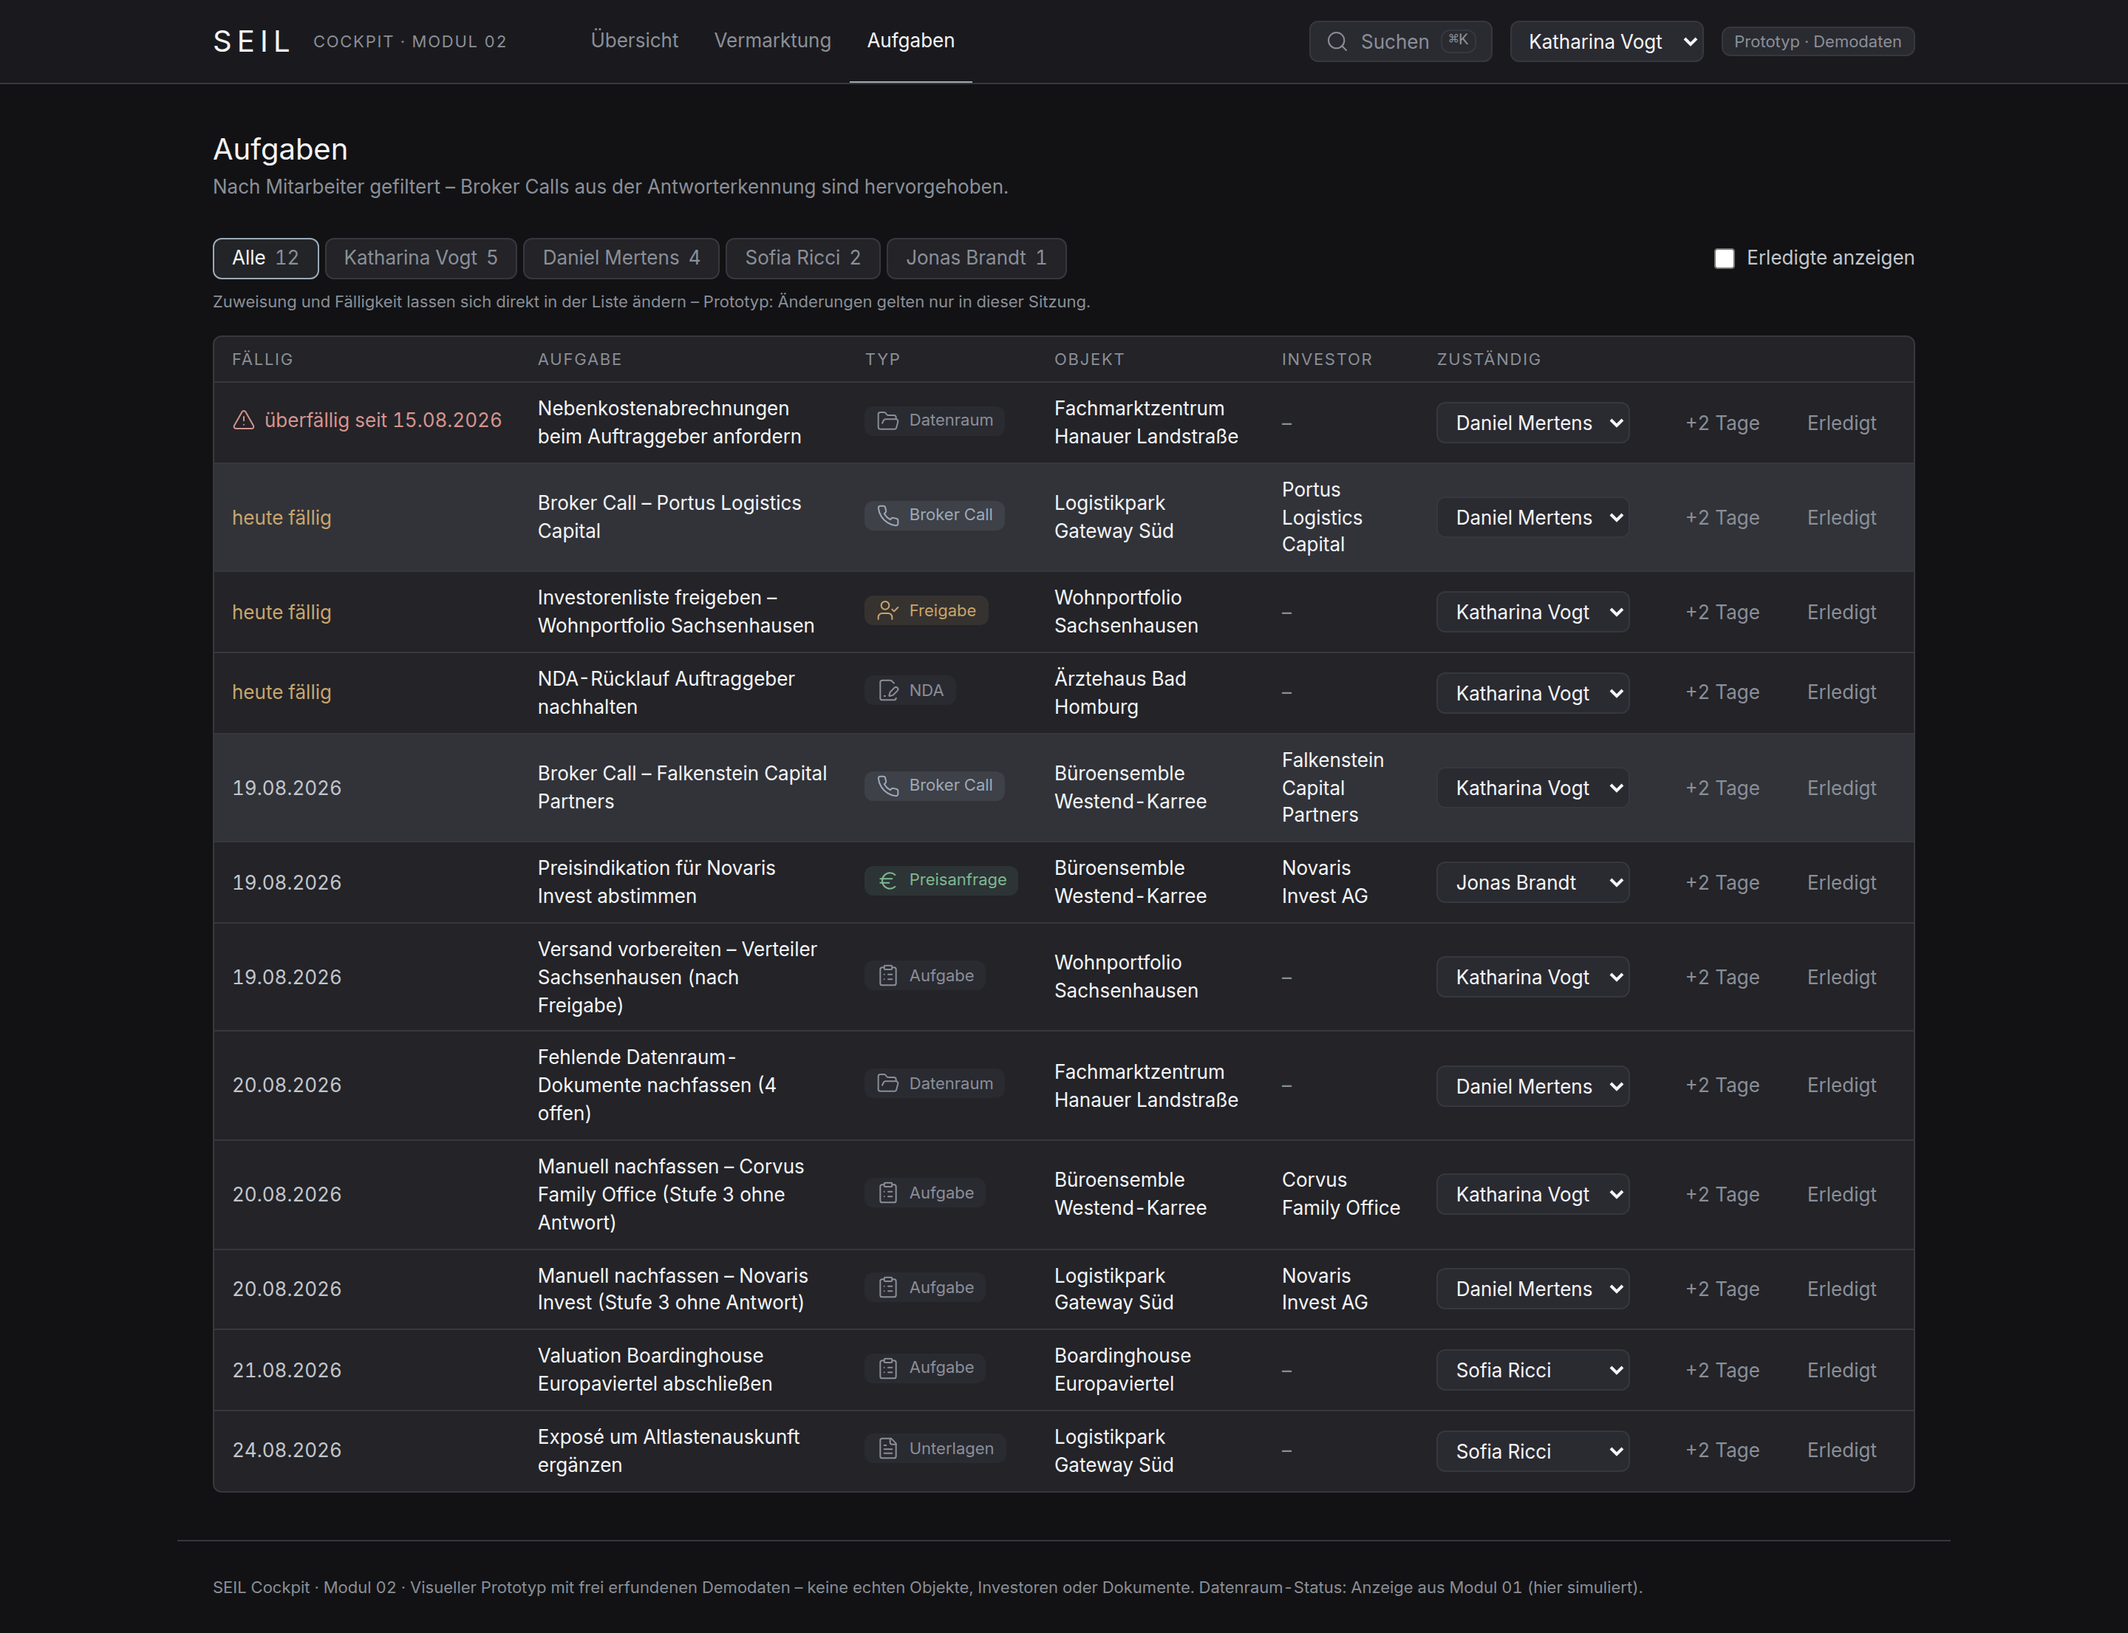
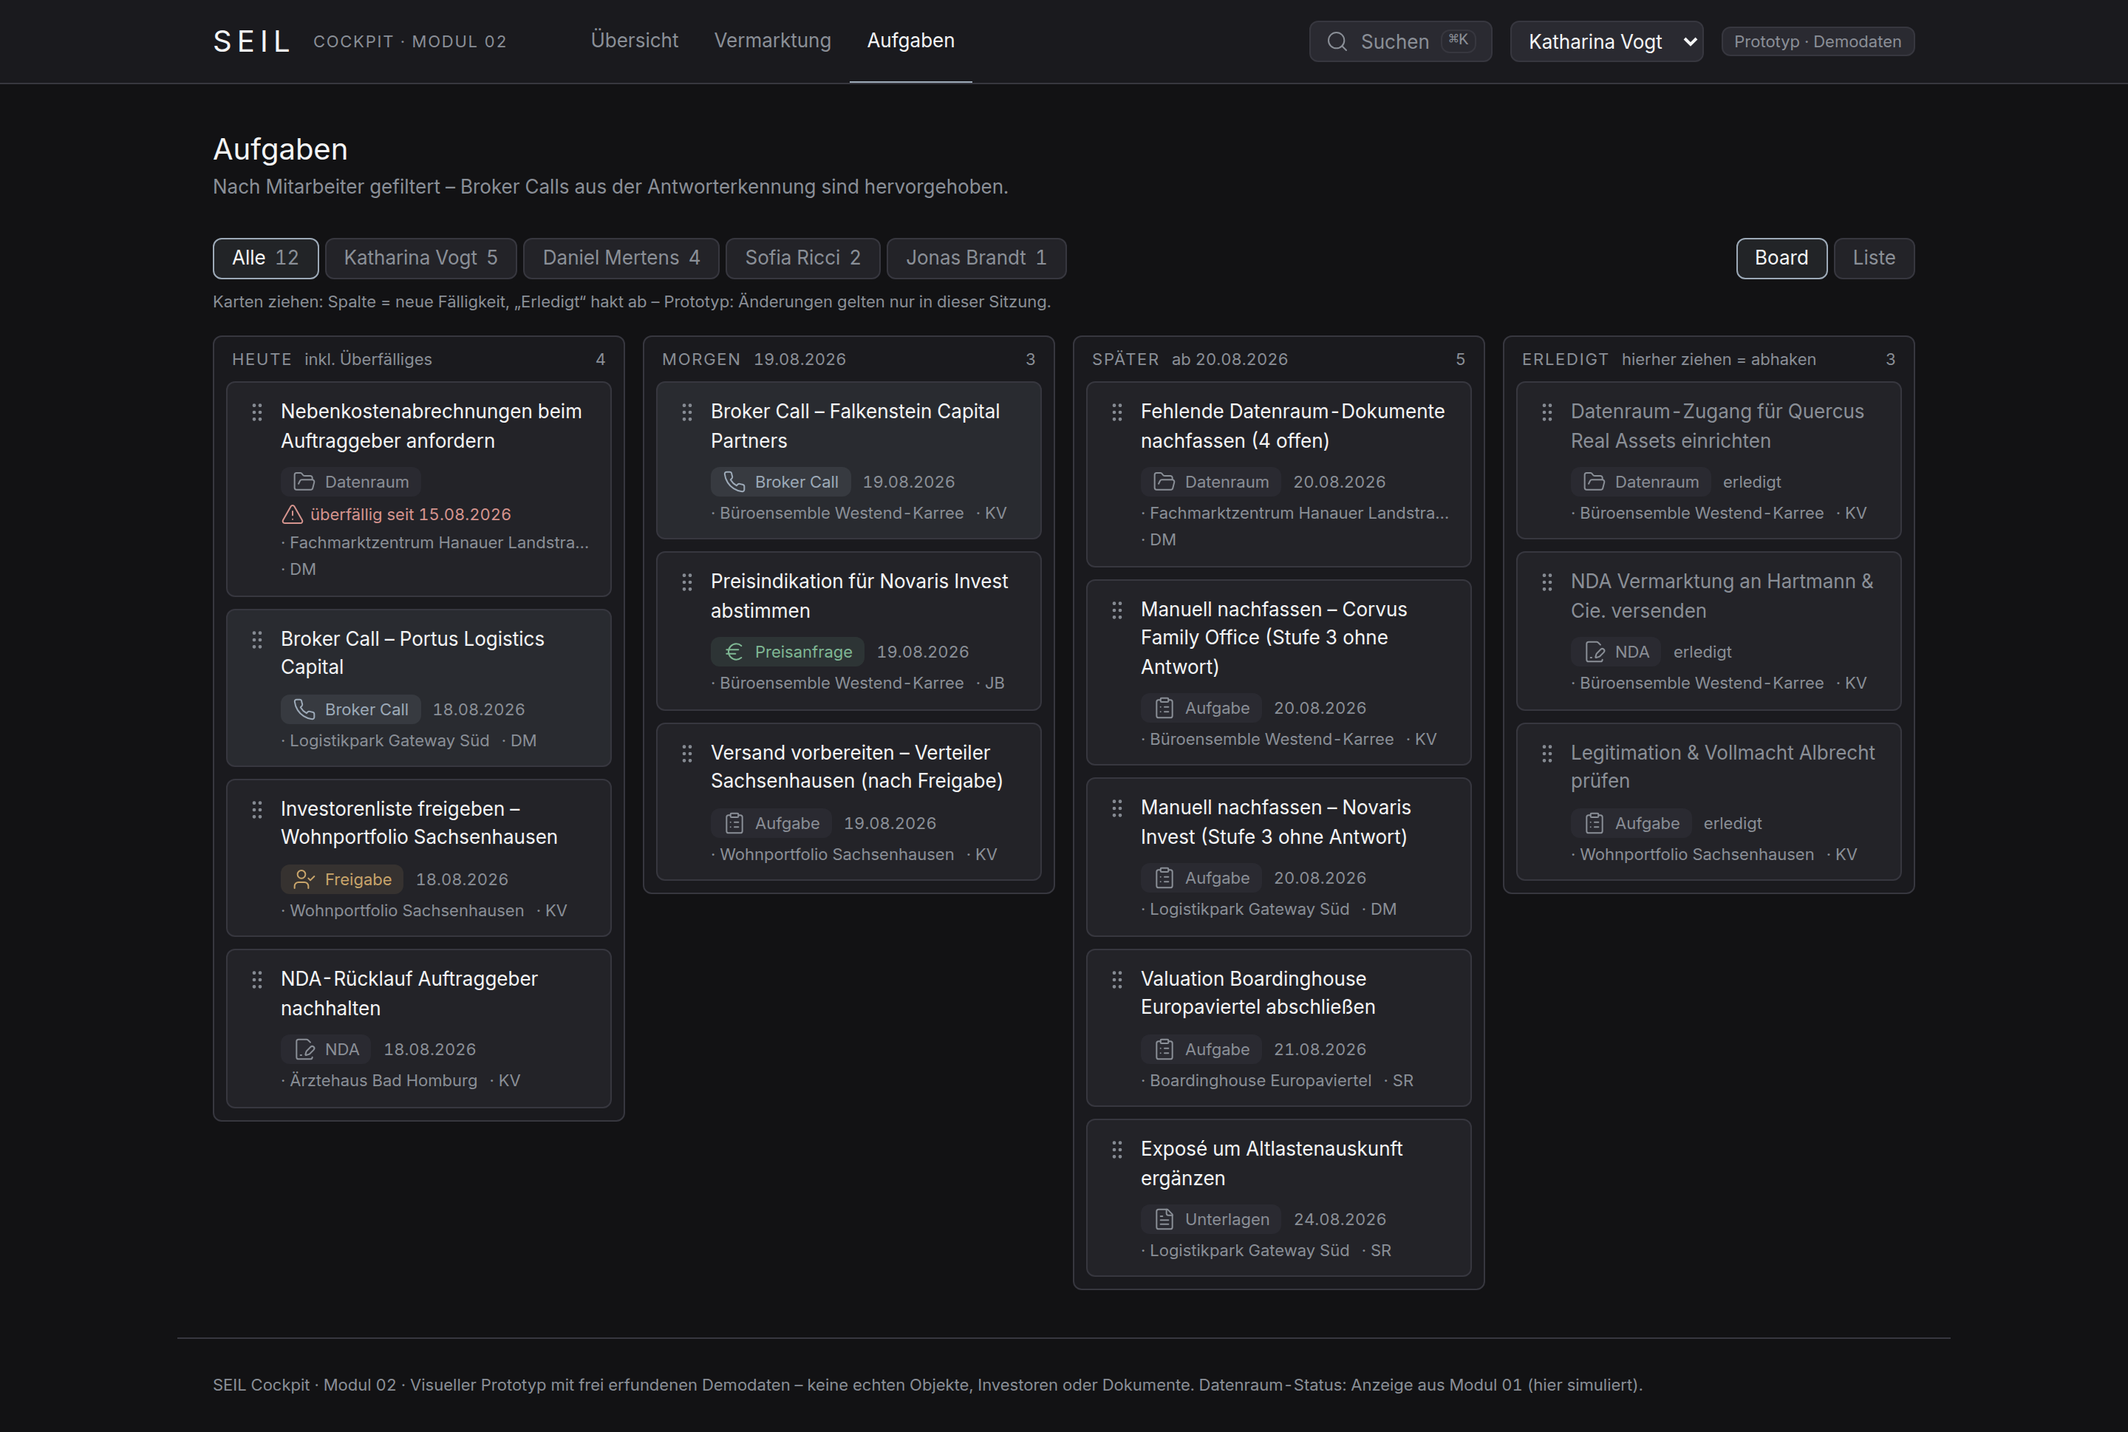
Aufgaben als Kanban-Board mit Drag & Drop
Der Aufgaben-Screen zeigt jetzt standardmäßig ein Board mit vier
Spalten als Fälligkeits-Horizonte: Heute (inkl. Überfälligem), Morgen,
Später, Erledigt. Karten lassen sich per Drag & Drop umplanen; ein Zug
nach "Erledigt" hakt ab, ein Zug heraus öffnet wieder. Änderungen
laufen über den geteilten Sitzungszustand und bleiben synchron mit der
Listenansicht (weiterhin per Umschalter erreichbar) und "Meine
Aufgaben" auf der Übersicht. Funktional mit Playwright verifiziert
(Karte Heute→Erledigt, Zähler 4/3 → 3/4).

Bewusste Abgrenzung in ANNAHMEN.md Punkt 40: Die Spalten sind
Fälligkeit, keine Prozessphasen - die Prozess-Schritte der
Transaktionen bleiben absichtlich ohne Drag & Drop, weil das eine
Statusänderung mit Folgewirkungen wäre und mit Regeln ins echte System
gehört. plusTage nach lib/derive.ts gezogen, Screenshots erneuert.

Claude-Session: https://claude.ai/code/session_01BojgCmkhzmX3simacEqUtG

diff --git a/components/aufgaben-board.tsx b/components/aufgaben-board.tsx
@@ -1,0 +1,203 @@
+"use client";
+
+import { useState } from "react";
+import type { LucideIcon } from "lucide-react";
+import {
+  ClipboardList,
+  Euro,
+  FilePenLine,
+  FileText,
+  FolderOpen,
+  GripVertical,
+  Phone,
+  TriangleAlert,
+  UserCheck,
+} from "lucide-react";
+import { fmtDatum, mitarbeiterVon, objektVon, plusTage } from "@/lib/derive";
+import { aufgaben, HEUTE } from "@/lib/mock-data";
+import type { Aufgabe, AufgabenTyp } from "@/lib/types";
+import { Badge, ICON_SM, ICON_STROKE, type Tone } from "@/components/ui";
+import { Kicker } from "@/components/cockpit";
+import { useSitzung } from "./sitzung";
+
+const typMeta: Record<AufgabenTyp, { label: string; tone: Tone; icon: LucideIcon }> = {
+  broker_call: { label: "Broker Call", tone: "accent", icon: Phone },
+  preisanfrage: { label: "Preisanfrage", tone: "success", icon: Euro },
+  freigabe: { label: "Freigabe", tone: "warning", icon: UserCheck },
+  datenraum: { label: "Datenraum", tone: "neutral", icon: FolderOpen },
+  unterlagen: { label: "Unterlagen", tone: "neutral", icon: FileText },
+  nda: { label: "NDA", tone: "neutral", icon: FilePenLine },
+  sonstiges: { label: "Aufgabe", tone: "neutral", icon: ClipboardList },
+};
+
+const MORGEN = plusTage(HEUTE, 1);
+const UEBERMORGEN = plusTage(HEUTE, 2);
+
+type SpaltenId = "heute" | "morgen" | "spaeter" | "erledigt";
+
+const SPALTEN: { id: SpaltenId; titel: string; hinweis: string }[] = [
+  { id: "heute", titel: "Heute", hinweis: "inkl. Überfälliges" },
+  { id: "morgen", titel: "Morgen", hinweis: fmtDatum(MORGEN) },
+  { id: "spaeter", titel: "Später", hinweis: `ab ${fmtDatum(UEBERMORGEN)}` },
+  { id: "erledigt", titel: "Erledigt", hinweis: "hierher ziehen = abhaken" },
+];
+
+function spalteVon(t: Aufgabe): SpaltenId {
+  if (t.erledigt) return "erledigt";
+  if (t.faellig <= HEUTE) return "heute";
+  if (t.faellig === MORGEN) return "morgen";
+  return "spaeter";
+}
+
+function AufgabenKarte({
+  aufgabe,
+  amZiehen,
+  onDragStart,
+  onDragEnd,
+}: {
+  aufgabe: Aufgabe;
+  amZiehen: boolean;
+  onDragStart: (e: React.DragEvent) => void;
+  onDragEnd: () => void;
+}) {
+  const meta = typMeta[aufgabe.typ];
+  const obj = aufgabe.objektId ? objektVon(aufgabe.objektId) : undefined;
+  const zust = mitarbeiterVon(aufgabe.mitarbeiterId);
+  const ueberfaellig = !aufgabe.erledigt && aufgabe.faellig < HEUTE;
+  const brokerCall = aufgabe.typ === "broker_call" && !aufgabe.erledigt;
+
+  return (
+    <div
+      draggable
+      onDragStart={onDragStart}
+      onDragEnd={onDragEnd}
+      className={`flex cursor-grab flex-col gap-2 rounded-seil border px-3 py-2.5 active:cursor-grabbing ${
+        amZiehen ? "border-seil-accent opacity-60" : "border-seil-line"
+      } ${brokerCall ? "bg-seil-accent-bg" : "bg-seil-card"}`}
+    >
+      <div className="flex items-start gap-2">
+        <GripVertical
+          size={ICON_SM}
+          strokeWidth={ICON_STROKE}
+          className="mt-0.5 shrink-0 text-seil-muted"
+          aria-hidden
+        />
+        <p className={`min-w-0 flex-1 ${aufgabe.erledigt ? "text-seil-muted" : "text-seil-text"}`}>
+          {aufgabe.titel}
+        </p>
+      </div>
+      <div className="flex flex-wrap items-center gap-x-2 gap-y-1 pl-6 text-kicker text-seil-muted">
+        <Badge tone={meta.tone} icon={meta.icon}>
+          {meta.label}
+        </Badge>
+        {ueberfaellig ? (
+          <span className="inline-flex items-center gap-1 text-seil-danger">
+            <TriangleAlert size={ICON_SM} strokeWidth={ICON_STROKE} aria-hidden />
+            überfällig seit {fmtDatum(aufgabe.faellig)}
+          </span>
+        ) : (
+          <span>{aufgabe.erledigt ? "erledigt" : fmtDatum(aufgabe.faellig)}</span>
+        )}
+        {obj ? <span className="truncate">· {obj.name}</span> : null}
+        <span>· {zust?.kuerzel}</span>
+      </div>
+    </div>
+  );
+}
+
+/**
+ * Aufgaben als Kanban: Die Spalten sind Fälligkeits-Horizonte, keine
+ * Prozessphasen – eine Karte ziehen heißt umplanen, „Erledigt“ heißt abhaken.
+ * Änderungen laufen über den geteilten Sitzungszustand und bleiben dadurch
+ * synchron mit Liste und „Meine Aufgaben“ (Prototyp: nur diese Sitzung).
+ */
+export function AufgabenBoard({ filterId }: { filterId: string }) {
+  const { aufgabenPatches, patchAufgabe } = useSitzung();
+  const [zieheId, setZieheId] = useState<string | null>(null);
+  const [ueberSpalte, setUeberSpalte] = useState<SpaltenId | null>(null);
+
+  const effektiv = aufgaben
+    .map((t) => ({ ...t, ...aufgabenPatches[t.id] }))
+    .filter((t) => filterId === "alle" || t.mitarbeiterId === filterId)
+    .sort((a, b) => (a.faellig < b.faellig ? -1 : 1));
+
+  const ablegen = (spalte: SpaltenId) => {
+    if (!zieheId) return;
+    const karte = effektiv.find((t) => t.id === zieheId);
+    setUeberSpalte(null);
+    setZieheId(null);
+    if (!karte || spalteVon(karte) === spalte) return;
+    if (spalte === "erledigt") {
+      patchAufgabe(karte.id, { erledigt: true });
+    } else if (spalte === "heute") {
+      patchAufgabe(karte.id, { erledigt: false, faellig: HEUTE });
+    } else if (spalte === "morgen") {
+      patchAufgabe(karte.id, { erledigt: false, faellig: MORGEN });
+    } else {
+      // Später: frühester Tag des Horizonts; das echte System fragt nach einem Datum.
+      patchAufgabe(karte.id, {
+        erledigt: false,
+        faellig: karte.faellig >= UEBERMORGEN ? karte.faellig : UEBERMORGEN,
+      });
+    }
+  };
+
+  return (
+    <div className="grid grid-cols-2 items-start gap-3 lg:grid-cols-4">
+      {SPALTEN.map((sp) => {
+        const karten = effektiv.filter((t) => spalteVon(t) === sp.id);
+        const hervorgehoben = ueberSpalte === sp.id && zieheId !== null;
+        return (
+          <div
+            key={sp.id}
+            role="list"
+            aria-label={`${sp.titel} (${karten.length})`}
+            onDragOver={(e) => {
+              e.preventDefault();
+              setUeberSpalte(sp.id);
+            }}
+            onDragLeave={() => setUeberSpalte((cur) => (cur === sp.id ? null : cur))}
+            onDrop={(e) => {
+              e.preventDefault();
+              ablegen(sp.id);
+            }}
+            className={`flex min-h-40 flex-col gap-2 rounded-seil border px-2 py-2 transition-colors ${
+              hervorgehoben ? "border-seil-accent bg-seil-accent-bg" : "border-seil-line bg-seil-surface"
+            }`}
+          >
+            <div className="flex min-w-0 items-baseline justify-between gap-2 px-1">
+              <span className="inline-flex min-w-0 items-baseline gap-2">
+                <Kicker>{sp.titel}</Kicker>
+                <span className="truncate text-kicker text-seil-muted">{sp.hinweis}</span>
+              </span>
+              <span className="shrink-0 text-kicker text-seil-muted">{karten.length}</span>
+            </div>
+            {karten.length === 0 ? (
+              <p className="px-1 pb-1 text-kicker text-seil-muted">
+                {hervorgehoben ? "hier ablegen" : "keine Aufgaben"}
+              </p>
+            ) : (
+              karten.map((t) => (
+                <div key={t.id} role="listitem">
+                  <AufgabenKarte
+                    aufgabe={t}
+                    amZiehen={zieheId === t.id}
+                    onDragStart={(e) => {
+                      e.dataTransfer.setData("text/plain", t.id);
+                      e.dataTransfer.effectAllowed = "move";
+                      setZieheId(t.id);
+                    }}
+                    onDragEnd={() => {
+                      setZieheId(null);
+                      setUeberSpalte(null);
+                    }}
+                  />
+                </div>
+              ))
+            )}
+          </div>
+        );
+      })}
+    </div>
+  );
+}

diff --git a/components/aufgaben-client.tsx b/components/aufgaben-client.tsx
@@ -14,7 +14,7 @@ import {
   TriangleAlert,
   UserCheck,
 } from "lucide-react";
-import { faelligLabel, investorVon, objektVon } from "@/lib/derive";
+import { faelligLabel, investorVon, objektVon, plusTage } from "@/lib/derive";
 import { aufgaben, mitarbeiter } from "@/lib/mock-data";
 import type { Aufgabe, AufgabenTyp } from "@/lib/types";
 import {
@@ -35,6 +35,7 @@ import {
   type Tone,
 } from "@/components/ui";
 import { EntityLink } from "@/components/cockpit";
+import { AufgabenBoard } from "@/components/aufgaben-board";
 import { useSitzung } from "@/components/sitzung";
 
 const typMeta: Record<AufgabenTyp, { label: string; tone: Tone; icon: LucideIcon }> = {
@@ -46,13 +47,6 @@ const typMeta: Record<AufgabenTyp, { label: string; tone: Tone; icon: LucideIcon
   nda: { label: "NDA", tone: "neutral", icon: FilePenLine },
   sonstiges: { label: "Aufgabe", tone: "neutral", icon: ClipboardList },
 };
-
-/** ISO-Datum um n Tage verschieben – ohne Date.now, rein deterministisch. */
-function plusTage(iso: string, n: number): string {
-  const [y, m, d] = iso.split("-").map(Number);
-  const dt = new Date(Date.UTC(y, m - 1, d + n));
-  return dt.toISOString().slice(0, 10);
-}
 
 type Override = Partial<Pick<Aufgabe, "mitarbeiterId" | "faellig" | "erledigt">>;
 
@@ -66,6 +60,7 @@ export function AufgabenListe() {
   const { aufgabenPatches, patchAufgabe, resetAufgaben } = useSitzung();
   const [filterId, setFilterId] = useState<string>("alle");
   const [erledigteAnzeigen, setErledigteAnzeigen] = useState(false);
+  const [ansicht, setAnsicht] = useState<string>("board");
 
   const patch = (id: string, o: Override) => patchAufgabe(id, o);
 
@@ -105,18 +100,33 @@ export function AufgabenListe() {
               Zurücksetzen ({geaendert})
             </Button>
           ) : null}
-          <Checkbox
-            label="Erledigte anzeigen"
-            checked={erledigteAnzeigen}
-            onChange={(e) => setErledigteAnzeigen(e.target.checked)}
+          {ansicht === "liste" ? (
+            <Checkbox
+              label="Erledigte anzeigen"
+              checked={erledigteAnzeigen}
+              onChange={(e) => setErledigteAnzeigen(e.target.checked)}
+            />
+          ) : null}
+          <Tabs
+            label="Ansicht der Aufgaben"
+            activeId={ansicht}
+            onChange={setAnsicht}
+            items={[
+              { id: "board", label: "Board" },
+              { id: "liste", label: "Liste" },
+            ]}
           />
         </span>
       </div>
       <p className="mb-4 text-kicker text-seil-muted">
-        Zuweisung und Fälligkeit lassen sich direkt in der Liste ändern – Prototyp: Änderungen
-        gelten nur in dieser Sitzung.
+        {ansicht === "board"
+          ? "Karten ziehen: Spalte = neue Fälligkeit, „Erledigt“ hakt ab – Prototyp: Änderungen gelten nur in dieser Sitzung."
+          : "Zuweisung und Fälligkeit lassen sich direkt in der Liste ändern – Prototyp: Änderungen gelten nur in dieser Sitzung."}
       </p>
 
+      {ansicht === "board" ? (
+        <AufgabenBoard filterId={filterId} />
+      ) : (
       <Card>
         <Table>
           <THead>
@@ -221,6 +231,7 @@ export function AufgabenListe() {
           </TBody>
         </Table>
       </Card>
+      )}
     </>
   );
 }

diff --git a/lib/derive.ts b/lib/derive.ts
@@ -134,6 +134,12 @@ export function fmtDatumKurz(iso?: string): string {
   return zeit ? `${t}.${m}. ${zeit} Uhr` : `${t}.${m}.`;
 }
 
+/** ISO-Datum um n Tage verschieben – ohne Date.now, rein deterministisch. */
+export function plusTage(iso: string, n: number): string {
+  const [y, m, d] = iso.split("-").map(Number);
+  return new Date(Date.UTC(y, m - 1, d + n)).toISOString().slice(0, 10);
+}
+
 /** Relative Bezeichnung für Fälligkeiten, bezogen auf den Referenztag. */
 export function faelligLabel(iso: string): { text: string; ton: "crit" | "warn" | "neutral" } {
   if (iso < HEUTE) return { text: `überfällig seit ${fmtDatum(iso)}`, ton: "crit" };

diff --git a/README.md b/README.md
@@ -31,7 +31,9 @@ Sicht eines Mitarbeiters um (simulierte Anmeldung). Die Übersicht beginnt mit d
 persönlichen Tag – dem **Posteingang der Antworterkennung** (erkannte Antworten
 mit Triage per Klick) und **Meine Aufgaben** (direkt abhakbar, synchron mit dem
 Aufgaben-Screen). **⌘K / Strg+K** öffnet die globale Suche über Objekte,
-Investoren und offene Aufgaben. Dazu ist der Prototyp an den im Kickoff
+Investoren und offene Aufgaben. Der Aufgaben-Screen ist ein **Kanban-Board**
+(Spalten = Fälligkeit: Heute, Morgen, Später, Erledigt) – Karten lassen sich
+per Drag & Drop umplanen und abhaken; die Liste bleibt als zweite Ansicht. Dazu ist der Prototyp an den im Kickoff
 gewünschten Stellen interaktiv: die Prozessleiste öffnet je Schritt ein
 Detailpanel, KI-extrahierte Werte lassen sich prüfen und übernehmen, Notizen
 lassen sich direkt am Objekt erfassen, Aufgaben lassen sich neu zuweisen,

diff --git a/ANNAHMEN.md b/ANNAHMEN.md
@@ -190,3 +190,12 @@ simuliert**; die echte Anbindung ist Umsetzungsteil von Modul 02.
 39. **Notizen am Objekt:** direkt in der Historie erfassbar (im Prototyp nur
     für die Sitzung). Ob Notizen auch am Investor und am Auftraggeber erfasst
     werden sollen, ist offen.
+
+40. **Aufgaben-Board (Kanban):** Die Spalten sind bewusst Fälligkeits-Horizonte
+    (Heute inkl. Überfälligem, Morgen, Später, Erledigt), keine Prozessphasen –
+    eine Karte ziehen heißt umplanen, „Erledigt“ heißt abhaken. Beim Zug nach
+    „Später“ setzt der Prototyp den frühesten Tag des Horizonts; das echte
+    System würde nach einem Datum fragen. Die Prozess-Schritte der
+    Transaktionen sind absichtlich **nicht** per Drag & Drop verschiebbar:
+    Das wäre eine Statusänderung mit Folgewirkungen (Freigaben, Automatik)
+    und gehört mit Regeln ins echte System.
